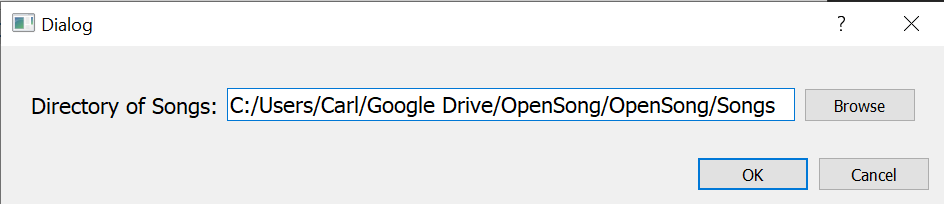
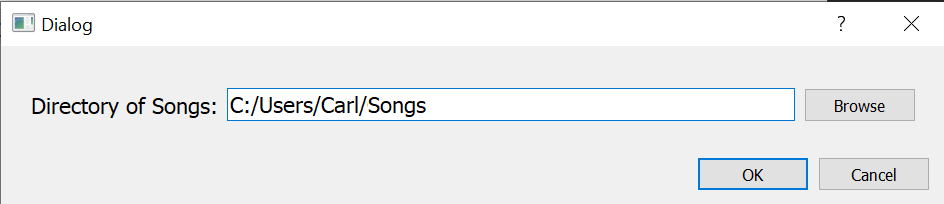
Version 0.2 * Added browse button to preferences dialog * Code cleanup * Updated to work on linux environment * Preferences data structure uses dictionary rather than array - auto converts preferences file.

Changed region(s): [[0.3686, 0.4706, 0.8294, 0.5882]]

diff --git a/README.md b/README.md
@@ -1,5 +1,5 @@
 # OpenSongViewer
-A windows client for OpenSong written in Python3/Qt5 - for allows you to create/edit/view song files which contain lyrics and chords - use as an electronic songbook - for Windows clients.
+A windows and linux client for OpenSong written in Python3/Qt5 - for allows you to create/edit/view song files which contain lyrics and chords - use as an electronic songbook - for Windows clients.
 
 # Features:
 
@@ -16,6 +16,12 @@ A windows client for OpenSong written in Python3/Qt5 - for allows you to create/
 
 - Initial release
 
+### V0.2
+
+- Added browse button to preferences dialog.
+- Start of code cleanup
+- Initial conversion to allow for linux filesystems.
+- Internal update to switch to use 'dictionary' (key/value pairs) to hold preferences. (Auto updates V0.1 preferences)
 
 # Description
 
@@ -36,13 +42,7 @@ This is the first version of the program, and while I've successfully been using
 
 When you open the viewer, you should have a main screen split broadly into three main sections:
 
-```
-Main          |  Song Chords
-Song          |  and lyrics
-List          |
---------------|
-Controls      |
-```
+![Main Window](webimages/MainWindow.png)
 
 The Controls section has a number of controls:
 * Add - bring up a file selection so you can choose an OpenSong song to add to the main song list.
@@ -77,17 +77,9 @@ The editor window consists of three parts:
 * The editor text box
 
 The editor window is a plain text box which is set to courier font - it is non-proportionally spaced so that you can set the positioning of chords e.g.
-```
-.Bb  Dm  C
- 
-[Verse 1]
-.        Bb             Dm
- You give life, You are love
-.         C
- You bring light to the darkness
-.        Bb           Dm 
- You give hope, You restore
-```
+
+![Edit Window](webimages/EditWindow.png)
+
 Lines beginning with '.' are chord lines - when you click on transpose keys, these are updated.
 Ensure you put a space at the beginning of lines of lyrics - so that this marries up with the space taken up by the '.' in the chords lines.
 Likes with [ and ] are verses and are highlighted when viewing the song.
@@ -97,6 +89,8 @@ Click OK to save the song (it saves to the file as well as the Main Song List).
  
 ## The Preferences screen
 At this point, the preferences screen simply allows you to select the default location where song files are kept (unless told otherwise, the program will use the folder where the program is.
+
+![Prefs Window](webimages/PreferencesWindow.png)
 
 
 # Q & A
